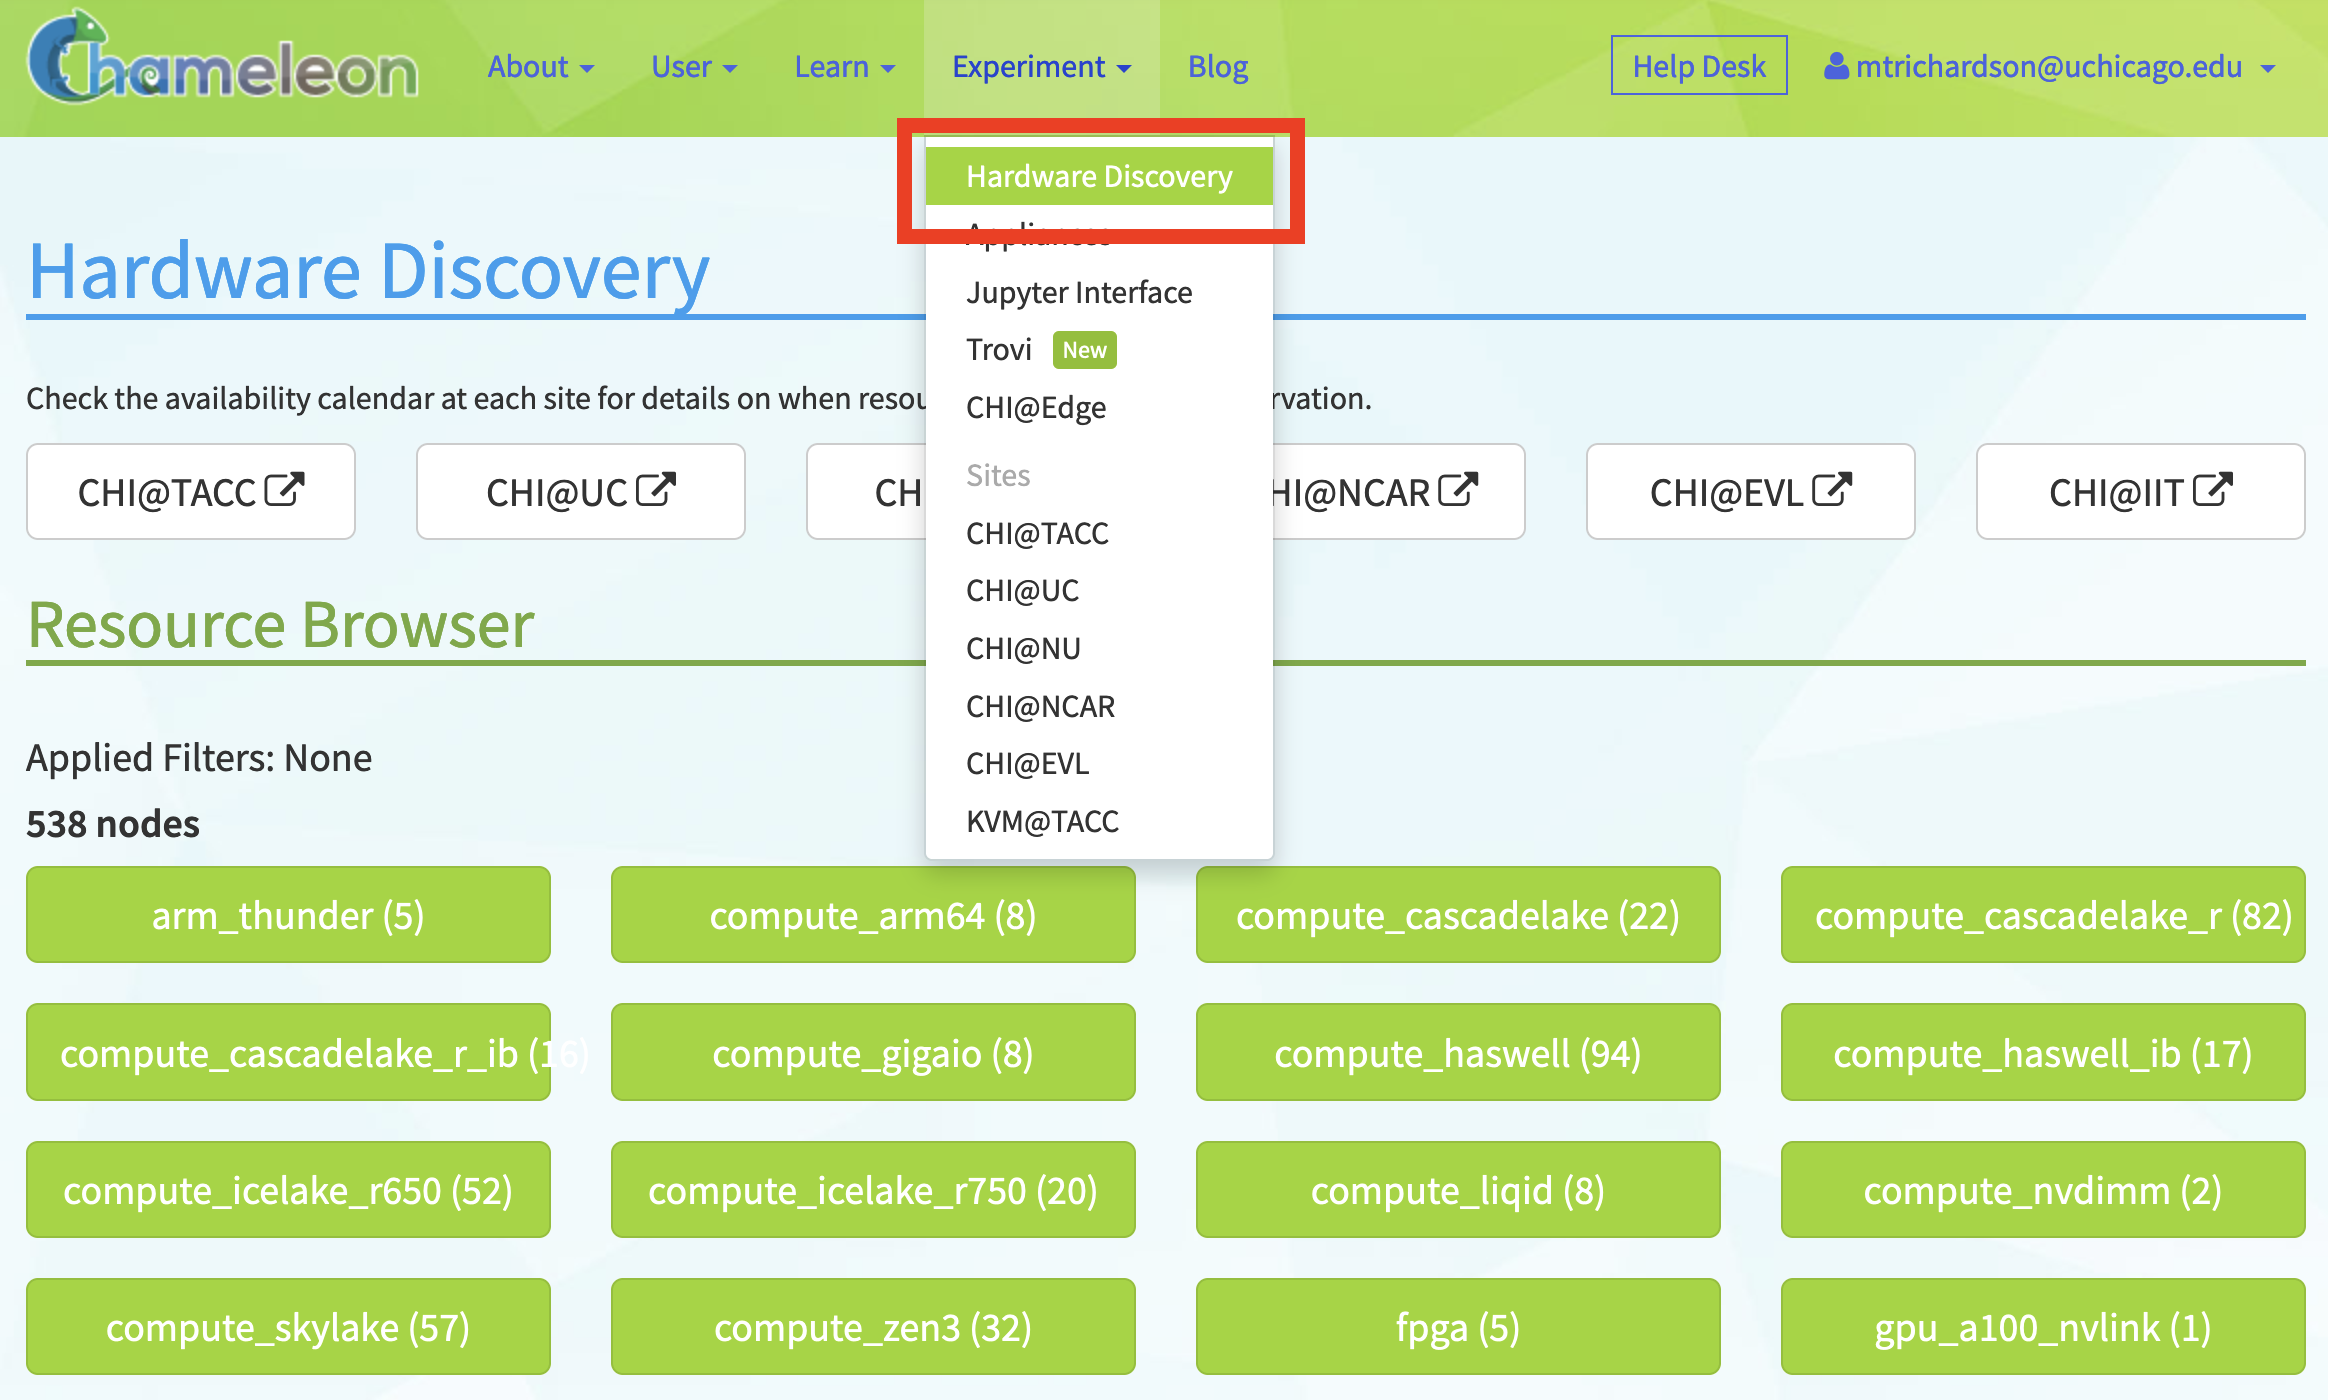
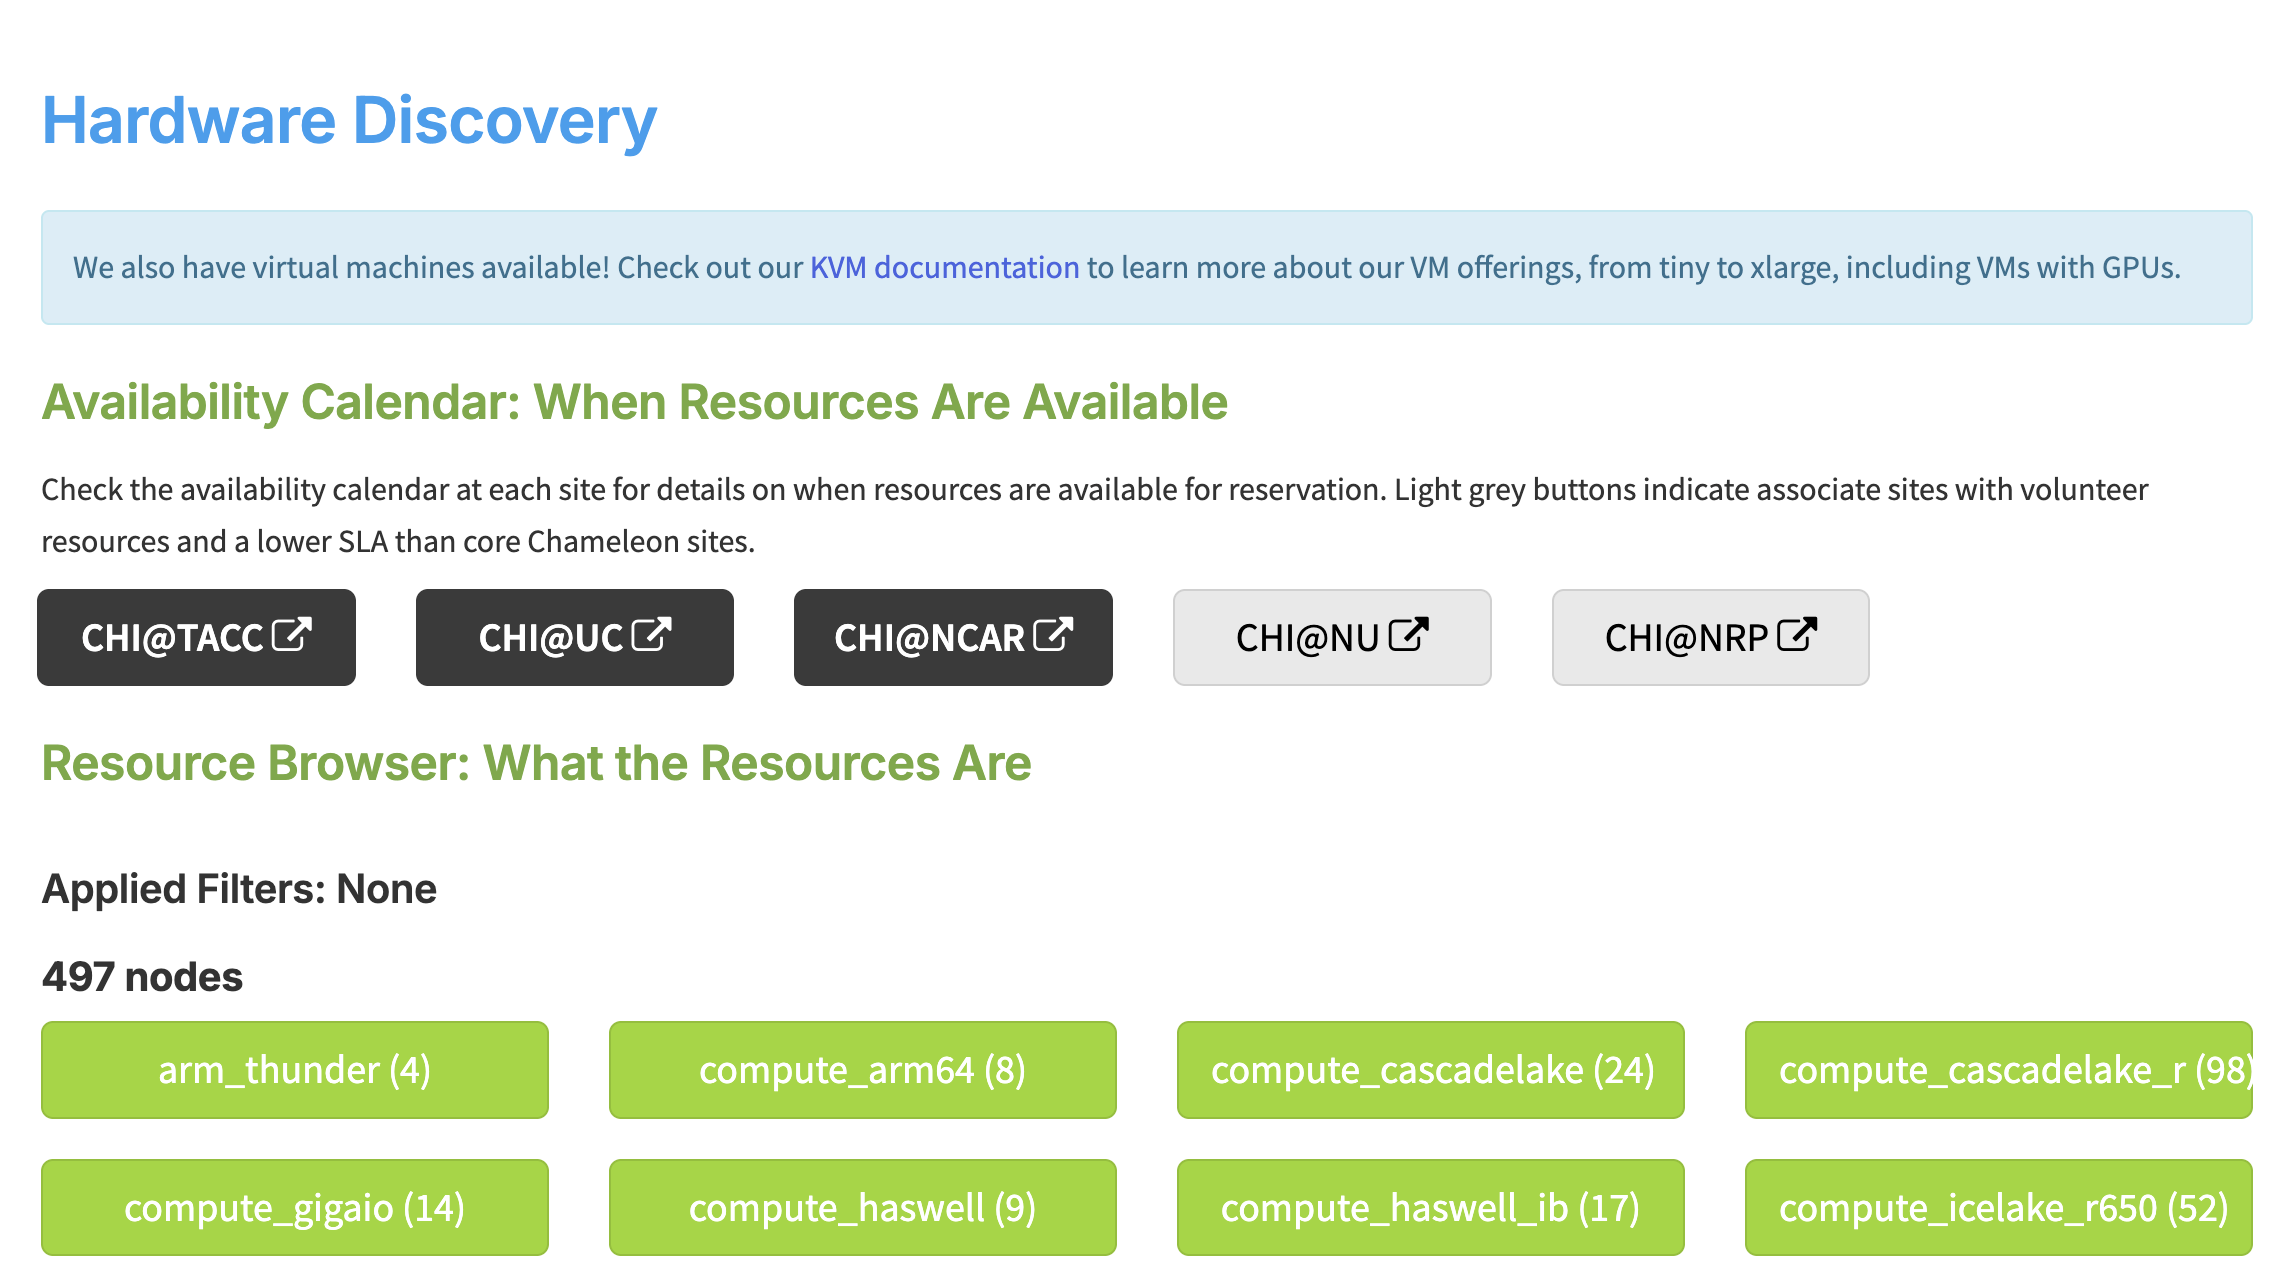
update hardware discovery section - getting start

diff --git a/source/getting-started/index.rst b/source/getting-started/index.rst
@@ -1,6 +1,6 @@
 .. _`service hours`: https://chameleoncloud.org/learn/frequently-asked-questions/#toc-what-are-the-units-of-an-allocation-and-how-am-i-charged-
 
-.. _`Hardware Discovery Catalog`: https://chameleoncloud.org/hardware/
+.. _`Hardware Discovery`: https://chameleoncloud.org/hardware/
 
 .. _globus: https://www.globus.org/
 
@@ -51,15 +51,12 @@ connecting to your first instance.
 
 At the end of this tutorial, you'll have learned how to:
 
-- Find networking, storage, and compute resources using the `Hardware Discovery
-  Catalog`_ and search resource availability via the :ref:`Resource Calendars
-  <the-lease-calendars>`
+- Find compute resources using the `Hardware Discovery`_ page and check availability via
+  the :ref:`Resource Calendars <the-lease-calendars>`
 - Make :doc:`advanced reservations<../technical/reservations/index>` for
   Chameleon resources
 - Configure, launch, and connect to an instance running on a bare metal server
 - Orchestrate a Chameleon experiment using Jupyter and python-chi_ *(advanced — see our* :doc:`companion guide <jupyter-python-chi>` *)*
-
-Let's get started!
 
 .. contents:: :local:
 
@@ -90,43 +87,43 @@ virtual instances on |KVM@TACC| and containers on |CHI@Edge| as well.
 Below, we will walk through the steps on how to launch a bare metal instance
 using the graphical user interface (GUI) on the Chameleon_ portal.
 
-Once you've completed this guide, our :doc:`companion guide <jupyter-python-chi>`
-walks through the same steps using Jupyter and python-chi_, Chameleon's Python
-library for programmatic experiment orchestration.
+Once you've completed this guide, our :doc:`companion guide
+<jupyter-python-chi>` walks through the same steps using Jupyter and
+python-chi_, Chameleon's Python library for programmatic experiment
+orchestration.
 
-Warm Up: Pick Your Hardware
----------------------------
+Pick Your Hardware
+-------------------
 
-To view a comprehensive overview of bare metal resources, browse our `Hardware
-Discovery Catalog`_, where you can search and filter for hardware across all
-Chameleon sites based on multiple criteria, including memory, thread count,
-CPUs, GPUs, and more. This catalog is the best place to start your hardware
-discovery.
+Start at the `Hardware Discovery`_ page on the Chameleon Portal. The **Chameleon Resource
+Browser** lets you filter nodes by type and view detailed specifications for
+each node, including CPU, memory, storage, and networking. See
+:doc:`../technical/discovery/index` for a full walkthrough of the discovery
+tools.
 
 .. image:: ../_static/imgs/getting_started/hardware-discovery.png
 
+The **Availability** section of each node type links directly to the Lease
+Calendars at each site, so you can check whether hardware is free before making
+a reservation.
+
 .. important::
-   Chameleon resources are available *per site*, which means that you **must**
-   use a specific site to access certain hardware.
+   Chameleon resources are available *per site*, which means you **must** select
+   the correct site to access specific hardware.
 
-   Chameleon Infrastructure (CHI) is offered at the following main sites:
+   The main Chameleon Infrastructure (CHI) sites are:
 
-   - **Texas Advanced Computing Center (TACC)**: Austin, TX - ``CHI@TACC``
-   - **University of Chicago (UC)**: Chicago, IL - ``CHI@UC``
-   - **National Center for Atmospheric Research (NCAR)**: Boulder, CO - ``CHI@NCAR``
-   
-   For example, if you want to use a `GPU v100`_ node, you must use the |CHI@UC| 
-   site, which is the only site where the node is available. Some hardware is 
-   available at multiple sites, but it is always a good idea to check where 
-   your preferred hardware is located to save yourself some confusion or 
-   trouble later down the line.
+   - **Texas Advanced Computing Center (TACC)**: Austin, TX — ``CHI@TACC``
+   - **University of Chicago (UC)**: Chicago, IL — ``CHI@UC``
+   - **National Center for Atmospheric Research (NCAR)**: Boulder, CO — ``CHI@NCAR``
 
-We will work with the ``Compute Cascadelake R`` nodes (see, e.g. `here
-<https://www.chameleoncloud.org/hardware/node/sites/tacc/clusters/chameleon/nodes/05e4d546-6c73-4d66-8b83-3fad392d149a/>`__)
-available through both the |CHI@UC| and |CHI@TACC| sites. These nodes are
-plentiful on the platform and tend to be available on demand (which is
-convenient for a demo!). However, bear in mind that you can follow this same
-guide to reserve any hardware on Chameleon.
+   For example, the `GPU v100`_ node is only available at |CHI@UC|. Always
+   confirm which site hosts your preferred hardware before making a reservation.
+
+For this guide we'll use ``Compute Cascadelake R`` nodes, available at both
+|CHI@UC| and |CHI@TACC|. They're plentiful and typically available on demand,
+which makes them a good choice for a first experiment. You can follow the same
+steps below for any hardware on Chameleon.
 
 Now that we have the hardware we want to use and the site where it is located,
 we can make our first reservation.
@@ -569,8 +566,7 @@ you're ready to start running experiments on Chameleon.
 - **Go programmatic**: Our :doc:`JupyterHub and python-chi guide
   <jupyter-python-chi>` walks through the same workflow using Chameleon's
   Python library inside a Jupyter Notebook — no GUI required.
-- **Explore more hardware**: Browse the `Hardware Discovery Catalog
-  <https://chameleoncloud.org/hardware/>`_ and the :doc:`reservations guide
+- **Explore more hardware**: Browse `Hardware Discovery`_ and the :doc:`reservations guide
   <../technical/reservations/index>` to learn about advanced reservation
   options.
 - **Browse experiment templates**: Check out `tutorials on Trovi

diff --git a/source/technical/discovery/hardware_catalog.rst b/source/technical/discovery/hardware_catalog.rst
@@ -1,7 +1,7 @@
 The Hardware Catalog on the Chameleon Portal
 ============================================
 
-You may use the `Hardware <https://chameleoncloud.org/hardware/>`_ page at the `Chameleon Portal <https://chameleoncloud.org>`_ to see the different hardware resource types available at each Chameleon site.
+You may use the `Hardware Discovery <https://chameleoncloud.org/hardware/>`_ page at the `Chameleon Portal <https://chameleoncloud.org>`_ to see the different hardware resource types available at each Chameleon site.
 
 Availability
 ____________
@@ -41,7 +41,7 @@ You may filter for specific node types by selecting the checkboxes that match yo
 Generating a Reservation Script
 _______________________________
 
-The `Chameleon Portal <https://chameleoncloud.org>`_  does not support a direct reservation from the `Hardware <https://chameleoncloud.org/hardware/>`_ page. However, you may generate a script for reserving the selected nodes by clicking on the *Reserve* button and use the auto-generated script later for the reservation.
+The `Chameleon Portal <https://chameleoncloud.org>`_  does not support a direct reservation from the `Hardware Discovery <https://chameleoncloud.org/hardware/>`_ page. However, you may generate a script for reserving the selected nodes by clicking on the *Reserve* button and use the auto-generated script later for the reservation.
 
 .. figure:: reserve.png
    :alt: Generating a reservation script
